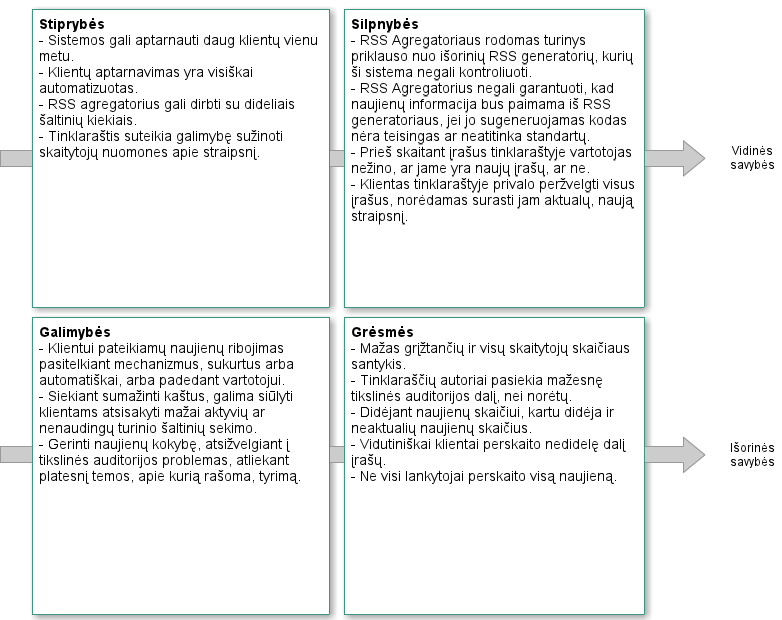
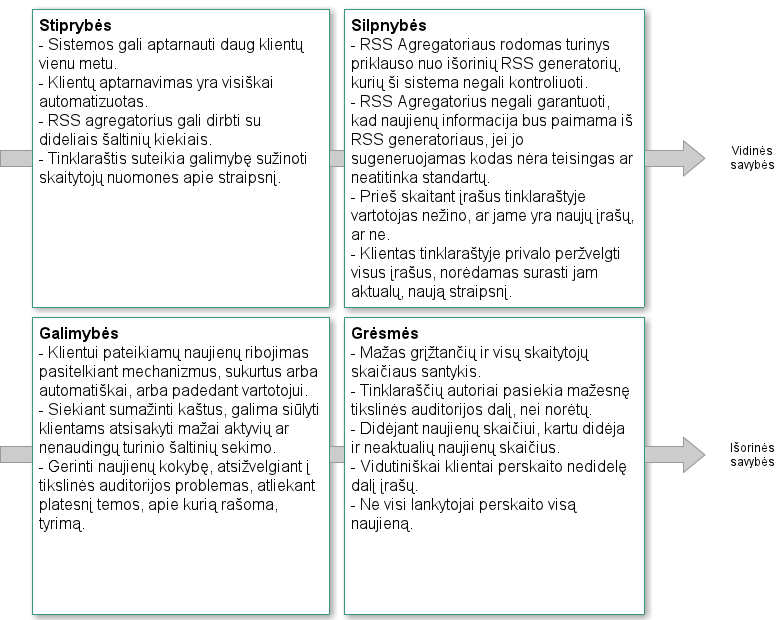
SWOT'o font'o dydis, padėtas praleistas taškelis

diff --git a/projektas/2.2_vidine_analize.md b/projektas/2.2_vidine_analize.md
@@ -288,5 +288,5 @@ RSS agregatorius pastoviais intervalais tikrina ar yra naujų įrašų kliento p
 
 - RSS Agregatoriaus rodomas turinys priklauso nuo išorinių RSS generatorių, kurių ši sistema negali kontroliuoti.
 - RSS Agregatorius negali garantuoti, kad naujienų informacija bus paimama iš RSS generatoriaus, jei jo sugeneruojamas kodas nėra teisingas ar neatitinka Atom standarto.
-- Prieš skaitant įrašus tinklaraštyje klientas nežino, ar jame yra naujų įrašų, ar ne
+- Prieš skaitant įrašus tinklaraštyje klientas nežino, ar jame yra naujų įrašų, ar ne.
 - Klientas tinklaraštyje privalo peržvelgti visus įrašus, norėdamas surasti jam aktualų, naują straipsnį.
